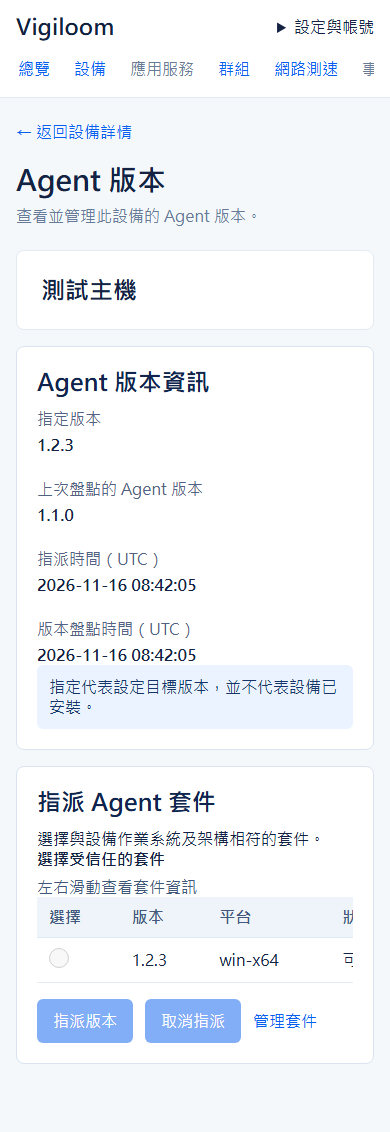
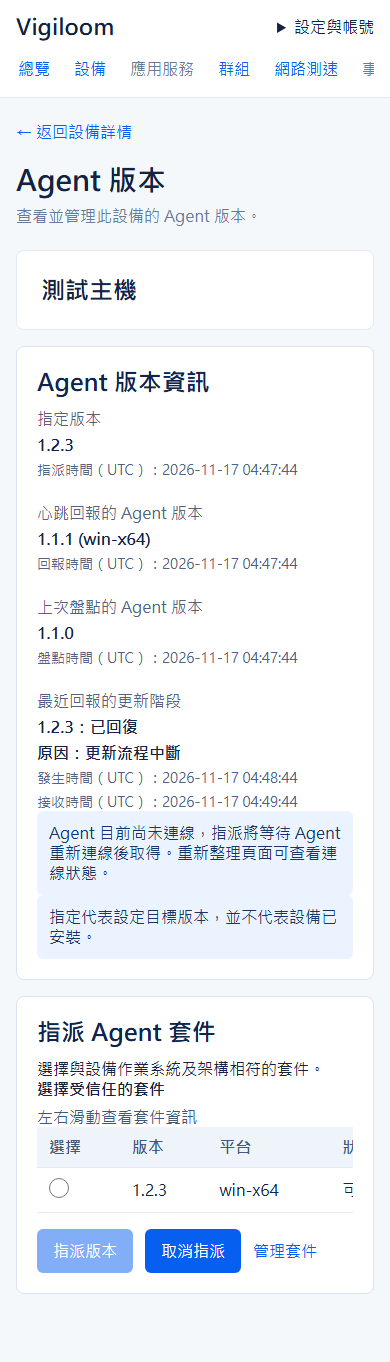
Show pending Agent updates while offline

diff --git a/tests/Vigiloom.Web.Tests/AgentVersionBrowserTests.cs b/tests/Vigiloom.Web.Tests/AgentVersionBrowserTests.cs
@@ -66,6 +66,7 @@ public sealed class AgentVersionBrowserTests(TestContext testContext)
         await page.GetByRole(AriaRole.Radio, new() { Name = "1.2.3 win-x64" }).CheckAsync();
         await page.GetByRole(AriaRole.Button, new() { Name = "指派版本", Exact = true }).ClickAsync();
         await page.GetByText("已儲存版本指派；設備是否安裝仍以實際回報為準。", new() { Exact = true }).WaitForAsync();
+        await page.GetByText("Agent 目前尚未連線，指派將等待 Agent 重新連線後取得。重新整理頁面可查看連線狀態。", new() { Exact = true }).WaitForAsync();
         Assert.Contains("尚無盤點資料", await page.Locator("main").InnerTextAsync());
         var observed = DateTimeOffset.UtcNow;
         var host = new InventoryEntry("host", "test", "1.0", "X64", OperatingSystem: "Linux", ProcessArchitecture: "X64",

diff --git a/docs/design/evidence/req-20/design-qa.md b/docs/design/evidence/req-20/design-qa.md
@@ -1,11 +1,7 @@
 # REQ-20 Agent 版本畫面設計驗證
 
-final result: blocked
+final result: pass
 
-設計參考：`../../req-20-version-concept.png`；實際畫面：`iab-desktop.png`；並排：`comparison.png`。
-設計參考為 1487 × 1058，實際畫面以 1440 × 1024 擷取。測試資料為隔離資料庫內的虛構設備與套件。
+使用者選定設計作為整體風格，實際內容依功能調整。`comparison.png` 並排呈現 `../../req-20-version-concept.png` 與 `desktop.png`，兩者均為已選取套件的狀態；左圖為設計示意，右圖是隔離測試站的實際資料。比對藍白配色、卡片、標題、表格與操作層次，符合既定風格；示意的設備、套件與狀態不作為實際資料要求。
 
-目前兩個畫面的選取狀態不同：設計稿選取一個套件，實際畫面尚未選取。需在相同狀態重新擷取後才能完成正式視覺比對。
-設計稿中的 Agent 回報與進度只是示意，目前更新回報尚未接入；不得填入虛構數據以匹配設計稿。
-
-待驗證：套件選取狀態、實際版本與連線狀態、窄螢幕互動，以及字體、間距、色彩、素材與文案的完整比對。
+`mobile.png` 為 390px 畫面；瀏覽器測試檢查指派、取消、Read only 畫面、等待連線提示與頁面無橫向溢出。實際離線重連與正式套件更新屬整合驗收，並非本次視覺驗證結論。
